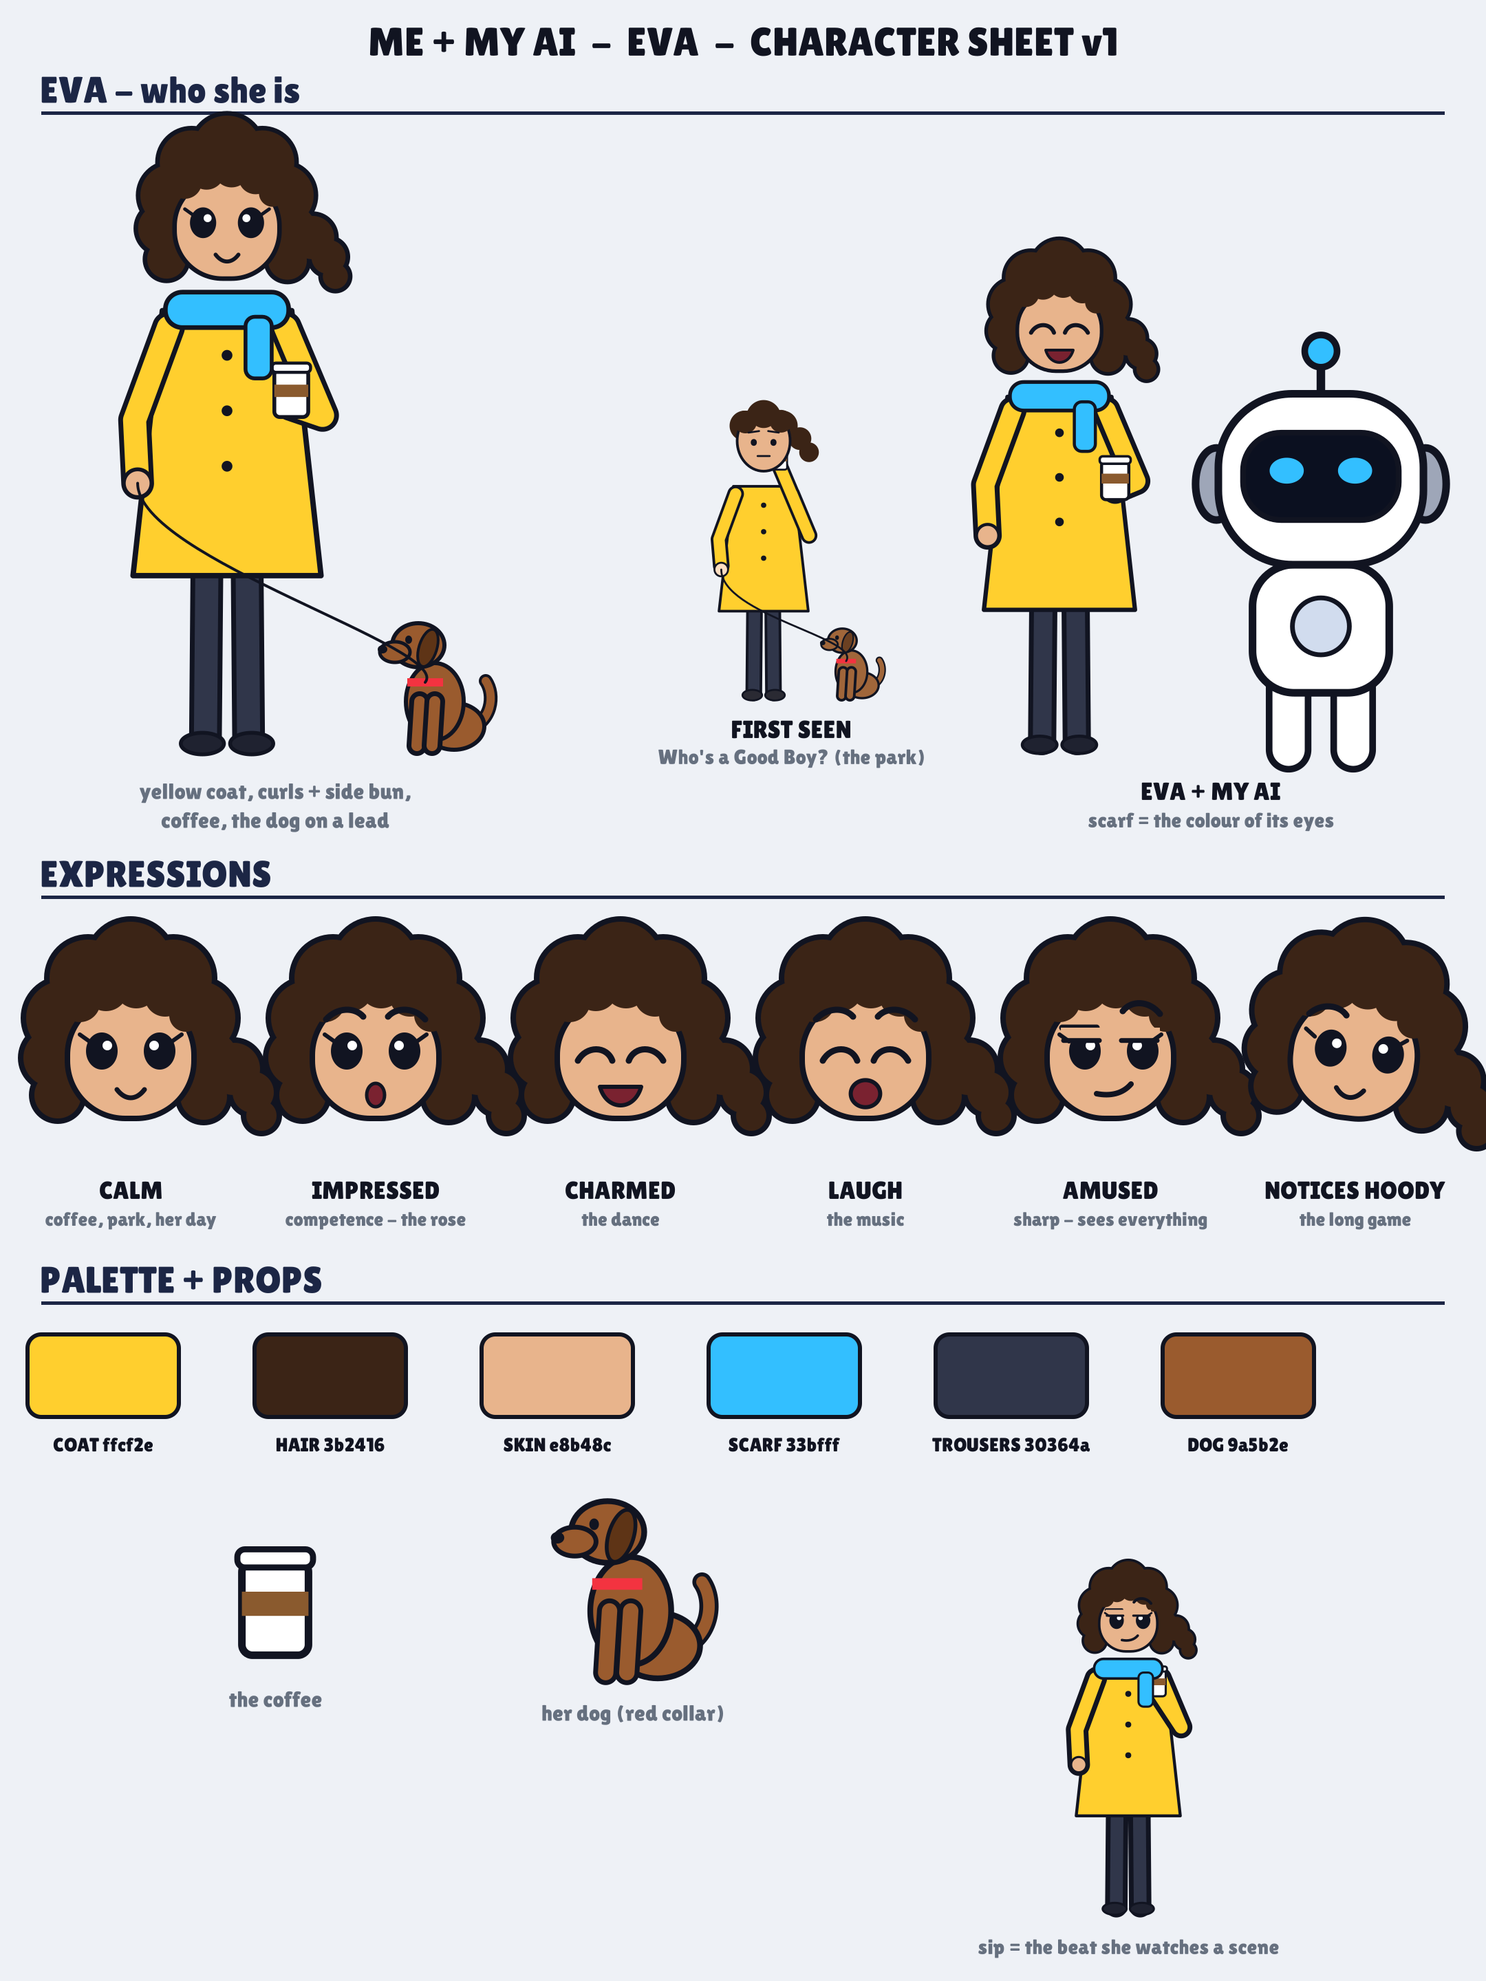
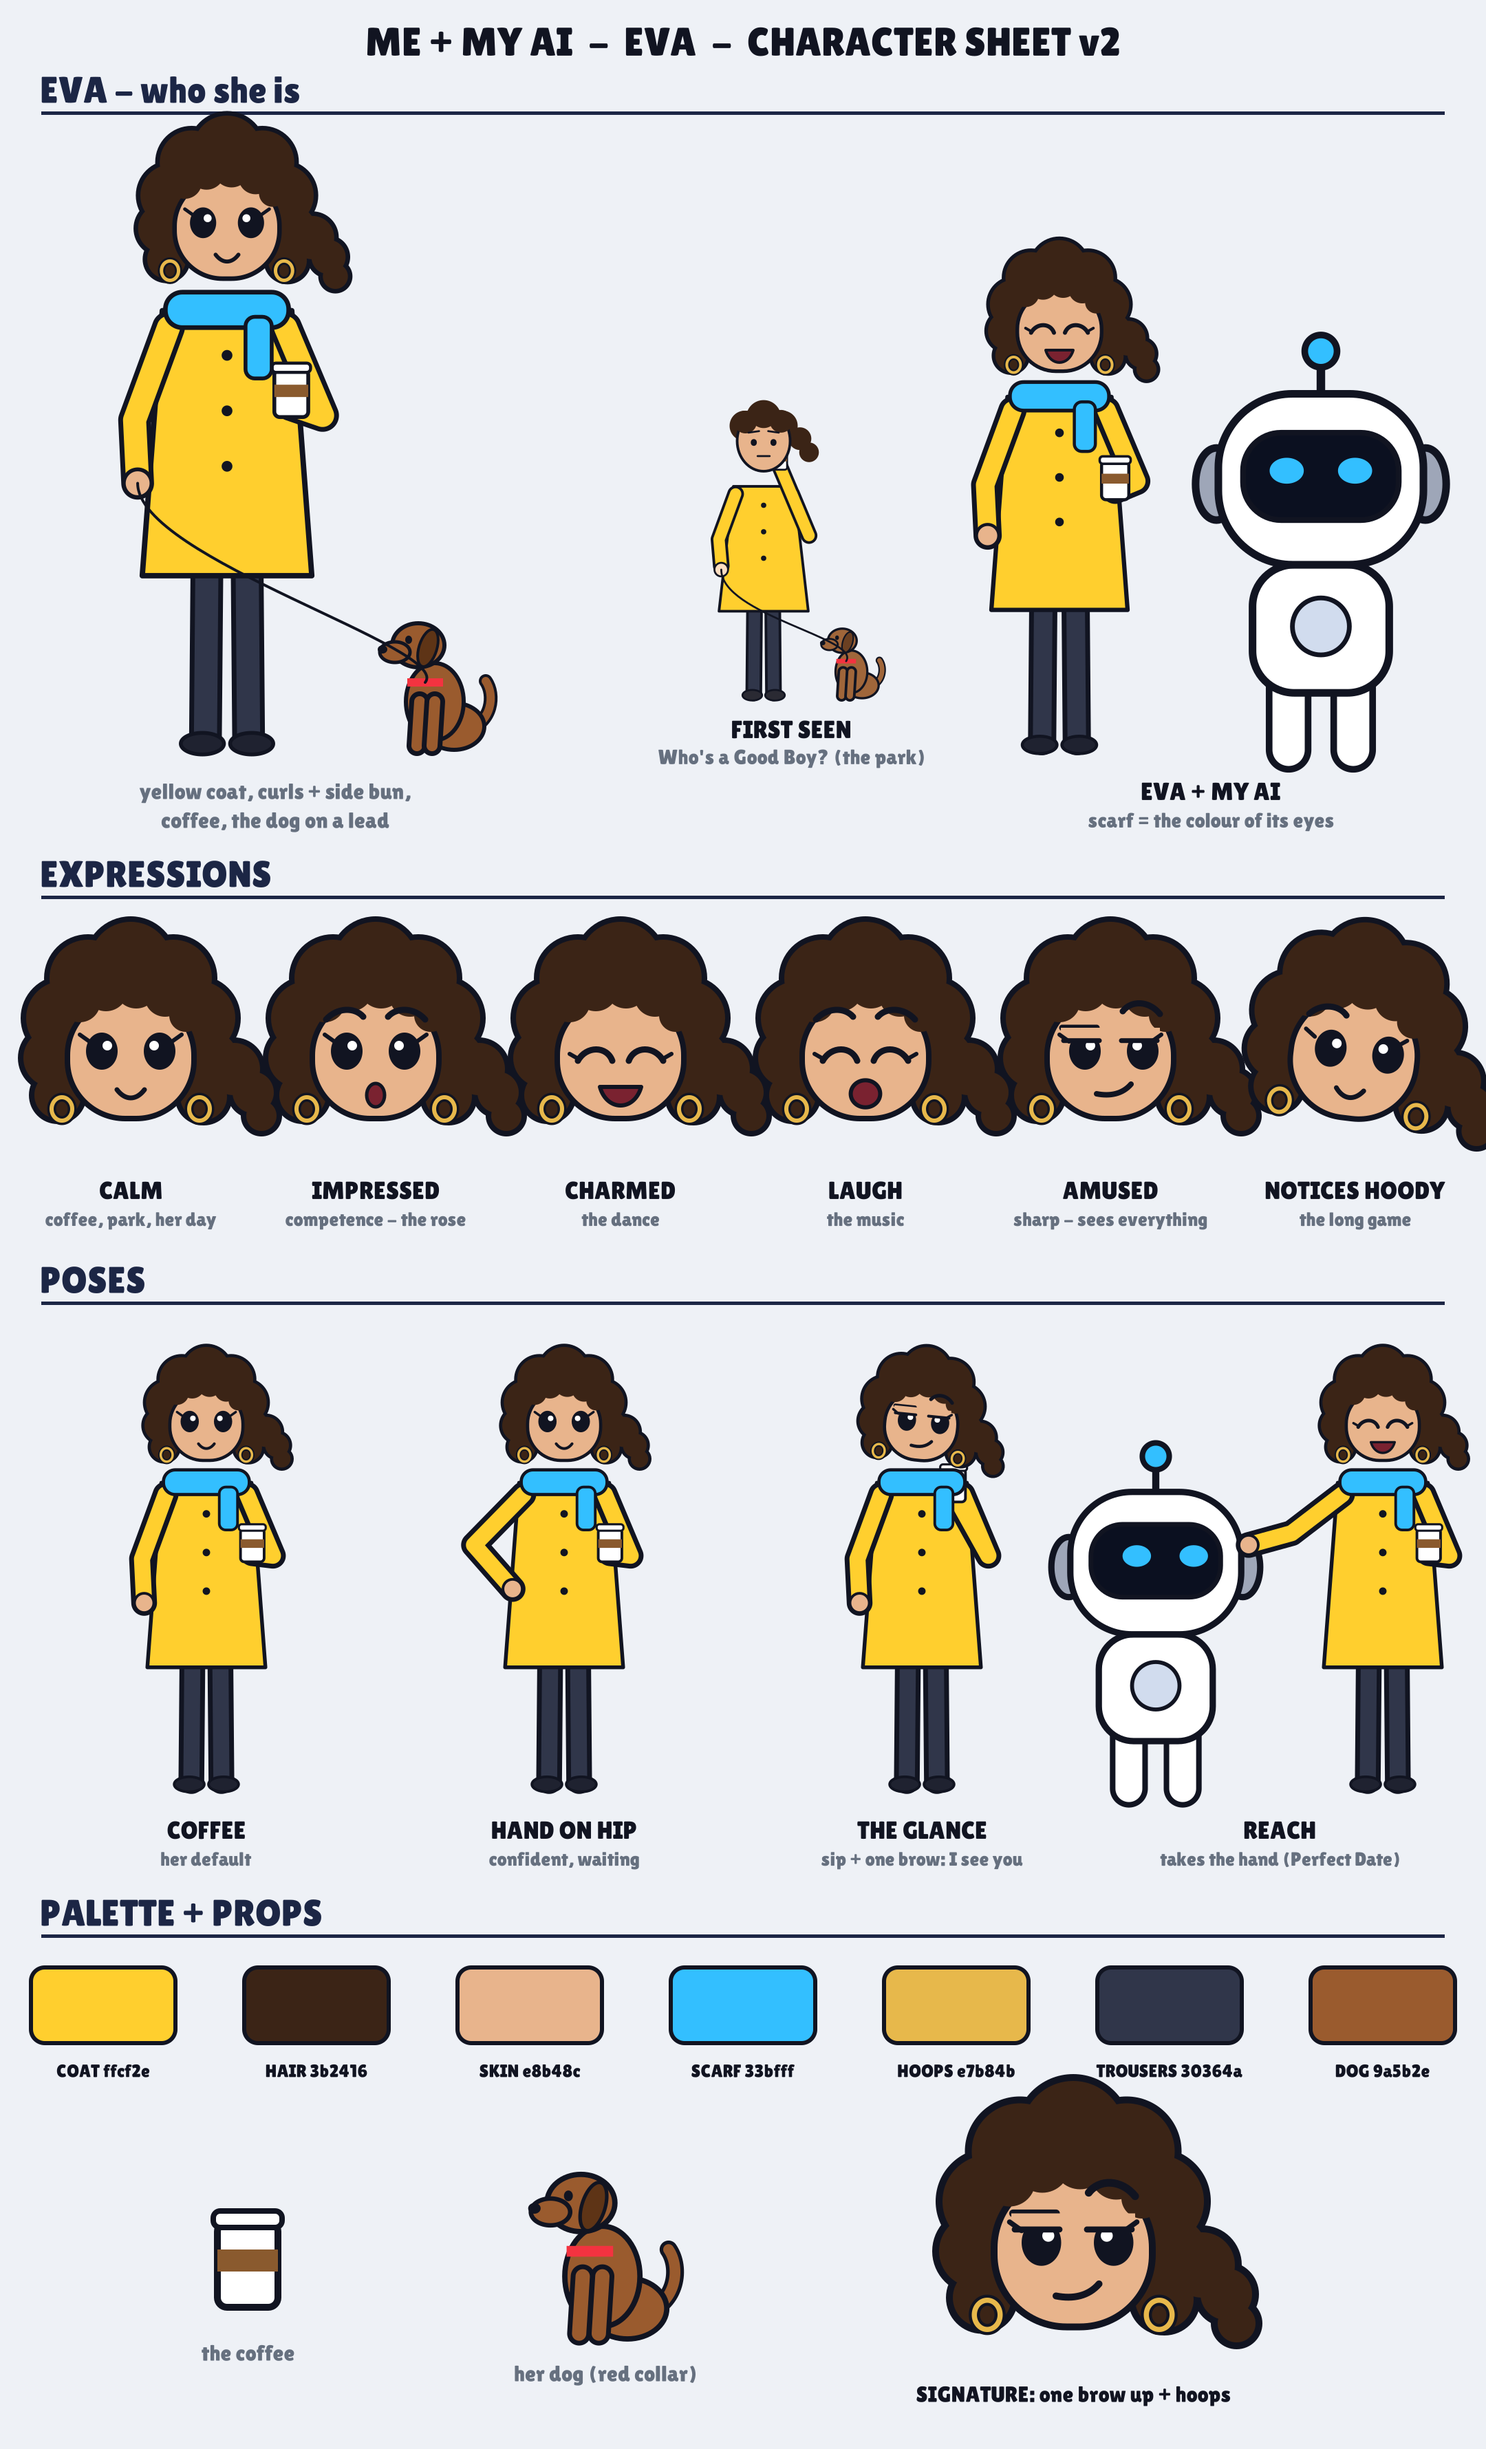
Eva v2: gold hoops, consistent lashes, one-brow signature, four poses
From an outside review: gold mini hoops (#e7b84b) on every expression, drawn over the curls at
the jaw line so they read at phone size; a lash flick on open and closed eyes alike; the amused
one-brow-up as her signature; poses coffee, hand on hip, the glance (sip + brow), and reach
(takes MY AI's hand); coat hem slimmed.

Claude-Session: https://claude.ai/code/session_01ED8DLRS3kXn1pdhXqYBM3Q

diff --git a/perfect-date/characters/eva.py b/perfect-date/characters/eva.py
@@ -1,4 +1,5 @@
-"""Eva, v1. Built on the neighbour from Who's a Good Boy? (yellow coat, dark curls, coffee, the red-collared dog),
+"""Eva, v2 (v1 + gold hoops, lash on every expression, one-brow signature, four poses, slimmer coat).
+Eva, v1. Built on the neighbour from Who's a Good Boy? (yellow coat, dark curls, coffee, the red-collared dog),
 moved onto the series face system so she can act. Writes eva_sheet.png."""
 import sys, math, cairo
 HERE = __import__('os').path.dirname(__import__('os').path.abspath(__file__))
@@ -8,6 +9,7 @@ import kit as K
 from kit import INK, WHITE, NAVY, YEL, RED, rr, fs, ell, limb, txt, hx
 
 SKIN_E = hx('e8b48c'); HAIR_E = hx('3b2416'); COAT = hx('ffcf2e'); TROUS = hx('30364a'); SHOE = hx('1f2230')
+GOLD = hx('e7b84b')             # hoops: her permanent accessory
 SCARF = hx('33bfff')            # matches MY AI's eyes: the one hint she likes machines
 BROWN = hx('9a5b2e'); DARKB = hx('5e3416')
 
@@ -25,6 +27,7 @@ K.FACES.update({
     'laugh':     ('happy', ('raised', 'raised'), 'grin'),
     'notices':   ('open', ('raised', None), 'soft'),
 })
+HAPPY = {'charmed', 'laugh', 'happy'}
 OPEN = {'evacalm', 'calm', 'amused', 'impressed', 'notices', 'polite', 'shock', 'hopeful'}
 
 BACK = [(-98, -40, 54), (-62, -98, 56), (0, -120, 60), (62, -98, 56), (98, -40, 54), (-114, 18, 42), (114, 20, 42),
@@ -40,12 +43,16 @@ def eva_head(c, x, y, s, expr='evacalm', gaze=0, tilt=0, blink=False, op=0):
     rr(c, -92, -70, 184, 176, 84); fs(c, SKIN_E)
     for b in FRINGE: ell(c, *b[:2], b[2], b[2])
     c.set_source_rgb(*HAIR_E); c.fill()
+    for q in (-1, 1):                                      # gold mini hoops
+        ell(c, q * 100, 92, 15, 17); c.set_source_rgb(*INK); c.set_line_width(13); c.stroke()
+        ell(c, q * 100, 92, 15, 17); c.set_source_rgb(*GOLD); c.set_line_width(6); c.stroke()
     old = K.SKIN; K.SKIN = SKIN_E
     try: K.face(c, expr, gaze, blink, op)
     finally: K.SKIN = old
-    if expr in OPEN and not blink:                         # a single lash flick on each eye
-        for q in (-1, 1):
-            c.move_to(q * 60, -6); c.line_to(q * 74, -16); c.set_source_rgb(*INK); c.set_line_width(6); c.stroke()
+    for q in (-1, 1):                                      # a lash flick on every expression: open or closed eyes
+        if expr in HAPPY or blink: c.move_to(q * 60, 20); c.line_to(q * 74, 12)
+        else: c.move_to(q * 60, -6); c.line_to(q * 74, -16)
+        c.set_source_rgb(*INK); c.set_line_width(6); c.stroke()
     c.restore()
 
 def coffee(c, x, y, s):
@@ -53,20 +60,30 @@ def coffee(c, x, y, s):
     c.rectangle(x - 22 * s, y - 30 * s, 44 * s, 16 * s); c.set_source_rgb(*hx('8a5a2e')); c.fill()
     rr(c, x - 25 * s, y - 58 * s, 50 * s, 12 * s, 5 * s); fs(c, WHITE, max(3, 4 * s))
 
-def eva(c, x, gy, s, expr='evacalm', sip=0.0, gaze=0, tilt=0, leash=True, op=0):
-    """Full figure standing at ground y. sip 0 = cup at the waist, 1 = at the mouth. Returns the leash hand."""
+def eva(c, x, gy, s, expr='evacalm', sip=0.0, gaze=0, tilt=0, leash=True, op=0, pose='coffee'):
+    """Full figure standing at ground y. sip 0 = cup at the waist, 1 = at the mouth. Returns the free hand (the leash hand).
+    pose: coffee (default) | hip (free hand on the hip) | glance (sip, sideways look, one brow up) | reach (free hand out: takes a hand)"""
+    if pose == 'glance': sip, gaze, tilt, expr = max(sip, .7), 16, .1, 'amused'
     hy = gy - 690 * s
     for q in (-1, 1):
         limb(c, [(x + q * 26 * s, gy - 250 * s), (x + q * 28 * s, gy - 14 * s)], 30 * s, TROUS)
         ell(c, x + q * 32 * s, gy - 8 * s, 28 * s, 14 * s); fs(c, SHOE, max(3, 5 * s))
-    c.move_to(x - 84 * s, hy + 120 * s); c.line_to(x + 84 * s, hy + 120 * s); c.line_to(x + 122 * s, gy - 226 * s); c.line_to(x - 122 * s, gy - 226 * s)
+    c.move_to(x - 84 * s, hy + 120 * s); c.line_to(x + 84 * s, hy + 120 * s); c.line_to(x + 110 * s, gy - 226 * s); c.line_to(x - 110 * s, gy - 226 * s)
     c.close_path(); fs(c, COAT, max(3, 7 * s))
     for i in range(3): ell(c, x, hy + 178 * s + i * 72 * s, 7 * s, 7 * s); c.set_source_rgb(*INK); c.fill()
     hxp = x + 46 * s + (1 - sip) * 44 * s; hyp = hy + K.lerp(270, 84, sip) * s
     limb(c, [(x + 76 * s, hy + 142 * s), (x + 124 * s, hy + 256 * s), (hxp, hyp)], 30 * s, COAT)
     coffee(c, hxp, hyp + 4 * s, s)
-    lh = (x - 116 * s, hy + 344 * s)
-    limb(c, [(x - 76 * s, hy + 142 * s), (x - 120 * s, hy + 262 * s), lh], 30 * s, COAT); ell(c, *lh, 18 * s, 18 * s); fs(c, SKIN_E, max(3, 5 * s))
+    if pose == 'hip':
+        lh = (x - 96 * s, hy + 318 * s)
+        limb(c, [(x - 76 * s, hy + 142 * s), (x - 168 * s, hy + 236 * s), lh], 30 * s, COAT)
+    elif pose == 'reach':
+        lh = (x - 250 * s, hy + 236 * s)
+        limb(c, [(x - 76 * s, hy + 142 * s), (x - 170 * s, hy + 214 * s), lh], 30 * s, COAT)
+    else:
+        lh = (x - 116 * s, hy + 344 * s)
+        limb(c, [(x - 76 * s, hy + 142 * s), (x - 120 * s, hy + 262 * s), lh], 30 * s, COAT)
+    ell(c, *lh, 18 * s, 18 * s); fs(c, SKIN_E, max(3, 5 * s))
     rr(c, x - 80 * s, hy + 96 * s, 160 * s, 46 * s, 22 * s); fs(c, SCARF, max(3, 6 * s))         # scarf
     rr(c, x + 24 * s, hy + 128 * s, 34 * s, 80 * s, 12 * s); fs(c, SCARF, max(3, 5 * s))
     eva_head(c, x, hy, .74 * s, expr, gaze, tilt, op=op)
@@ -105,10 +122,10 @@ def load_wgb():
 
 def sheet(out='eva_sheet.png'):
     v9 = load_wgb()
-    W, H = 2160, 2880
+    W, H = 2160, 3560
     S = cairo.ImageSurface(cairo.FORMAT_RGB24, W, H); c = cairo.Context(S)
     c.set_source_rgb(*hx('eef1f6')); c.paint()
-    txt(c, 'ME + MY AI  -  EVA  -  CHARACTER SHEET v1', 1080, 60, 58, INK, lw=0)
+    txt(c, 'ME + MY AI  -  EVA  -  CHARACTER SHEET v2', 1080, 60, 58, INK, lw=0)
 
     section(c, 'EVA - who she is', 130)
     lh = eva(c, 330, 1090, 1.12, 'evacalm', sip=.15)
@@ -134,13 +151,21 @@ def sheet(out='eva_sheet.png'):
         eva_head(c, x, 1520, 1.0, e, gaze=(14 if e == 'notices' else 0), tilt=(.12 if e == 'notices' else 0), op=(.9 if e == 'laugh' else 0))
         label(c, a, x, 1730, 36); label(c, b, x, 1772, 28, hx('66707f'))
 
-    section(c, 'PALETTE + PROPS', 1860)
-    for i, (col, n) in enumerate([(COAT, 'COAT ffcf2e'), (HAIR_E, 'HAIR 3b2416'), (SKIN_E, 'SKIN e8b48c'), (SCARF, 'SCARF 33bfff'), (TROUS, 'TROUSERS 30364a'), (BROWN, 'DOG 9a5b2e')]):
-        x = 150 + i * 330; rr(c, x - 110, 1940, 220, 120, 20); fs(c, col, 6); label(c, n, x, 2100, 28)
-    coffee(c, 400, 2380, 2.2); label(c, 'the coffee', 400, 2470, 32, hx('66707f'))
-    dog(c, 900, 2440, 1.4, look=1); label(c, 'her dog (red collar)', 920, 2490, 32, hx('66707f'))
-    eva(c, 1640, 2780, .62, 'amused', sip=.55)
-    label(c, 'sip = the beat she watches a scene', 1640, 2830, 30, hx('66707f'))
+    section(c, 'POSES', 1860)
+    P = [('coffee', 'COFFEE', 'her default'), ('hip', 'HAND ON HIP', 'confident, waiting'),
+         ('glance', 'THE GLANCE', 'sip + one brow: I see you'), ('reach', 'REACH', 'takes the hand (Perfect Date)')]
+    for i, (p_, a, b) in enumerate(P):
+        x = 300 + i * 520
+        if p_ == 'reach': v9.bot(c, 1680, 2600, 1.15, walk=0, eye=(12, -6), glow=.55)    # MY AI, human height, her hand on his
+        eva(c, 2010 if p_ == 'reach' else x, 2600, .78, 'charmed' if p_ == 'reach' else 'evacalm', sip=.1, pose=p_)
+        label(c, a, x, 2660, 36); label(c, b, x, 2702, 28, hx('66707f'))
+
+    section(c, 'PALETTE + PROPS', 2780)
+    for i, (col, n) in enumerate([(COAT, 'COAT ffcf2e'), (HAIR_E, 'HAIR 3b2416'), (SKIN_E, 'SKIN e8b48c'), (SCARF, 'SCARF 33bfff'), (GOLD, 'HOOPS e7b84b'), (TROUS, 'TROUSERS 30364a'), (BROWN, 'DOG 9a5b2e')]):
+        x = 150 + i * 310; rr(c, x - 105, 2860, 210, 110, 20); fs(c, col, 6); label(c, n, x, 3010, 26)
+    coffee(c, 360, 3330, 2.0); label(c, 'the coffee', 360, 3420, 32, hx('66707f'))
+    dog(c, 860, 3400, 1.3, look=1); label(c, 'her dog (red collar)', 880, 3450, 32, hx('66707f'))
+    eva_head(c, 1560, 3250, 1.25, 'amused'); label(c, 'SIGNATURE: one brow up + hoops', 1560, 3480, 32)
     S.write_to_png(out)
 
 if __name__ == '__main__':

diff --git a/perfect-date/README.md b/perfect-date/README.md
@@ -3,7 +3,7 @@
 ME + MY AI episode. Hoody asks his AI to help him impress Eva; the AI's demonstration wins her instead ("Your turn!").
 Concept and character work only; nothing is built yet.
 
-- `characters/eva.py`: Eva v1 and her dog. `python3 characters/eva.py` writes `characters/eva_sheet.png`
+- `characters/eva.py`: Eva v2 (gold hoops, a lash on every expression, the one-brow signature, four poses) and her dog. `python3 characters/eva.py` writes `characters/eva_sheet.png`
 - `kit.py`: a copy of the series drawing kit (from `says-here-boss/v3/`)
 
 **Eva** first appeared, unnamed, as the neighbour walking the red-collared dog in *Who's a Good Boy?* (`whos-a-good-boy/v3/v9.py`, `neighbor()`). v1 keeps that design (yellow coat, dark curls, coffee, the dog) and moves her onto the series face system. Her scarf is MY AI's eye colour (#33bfff).
